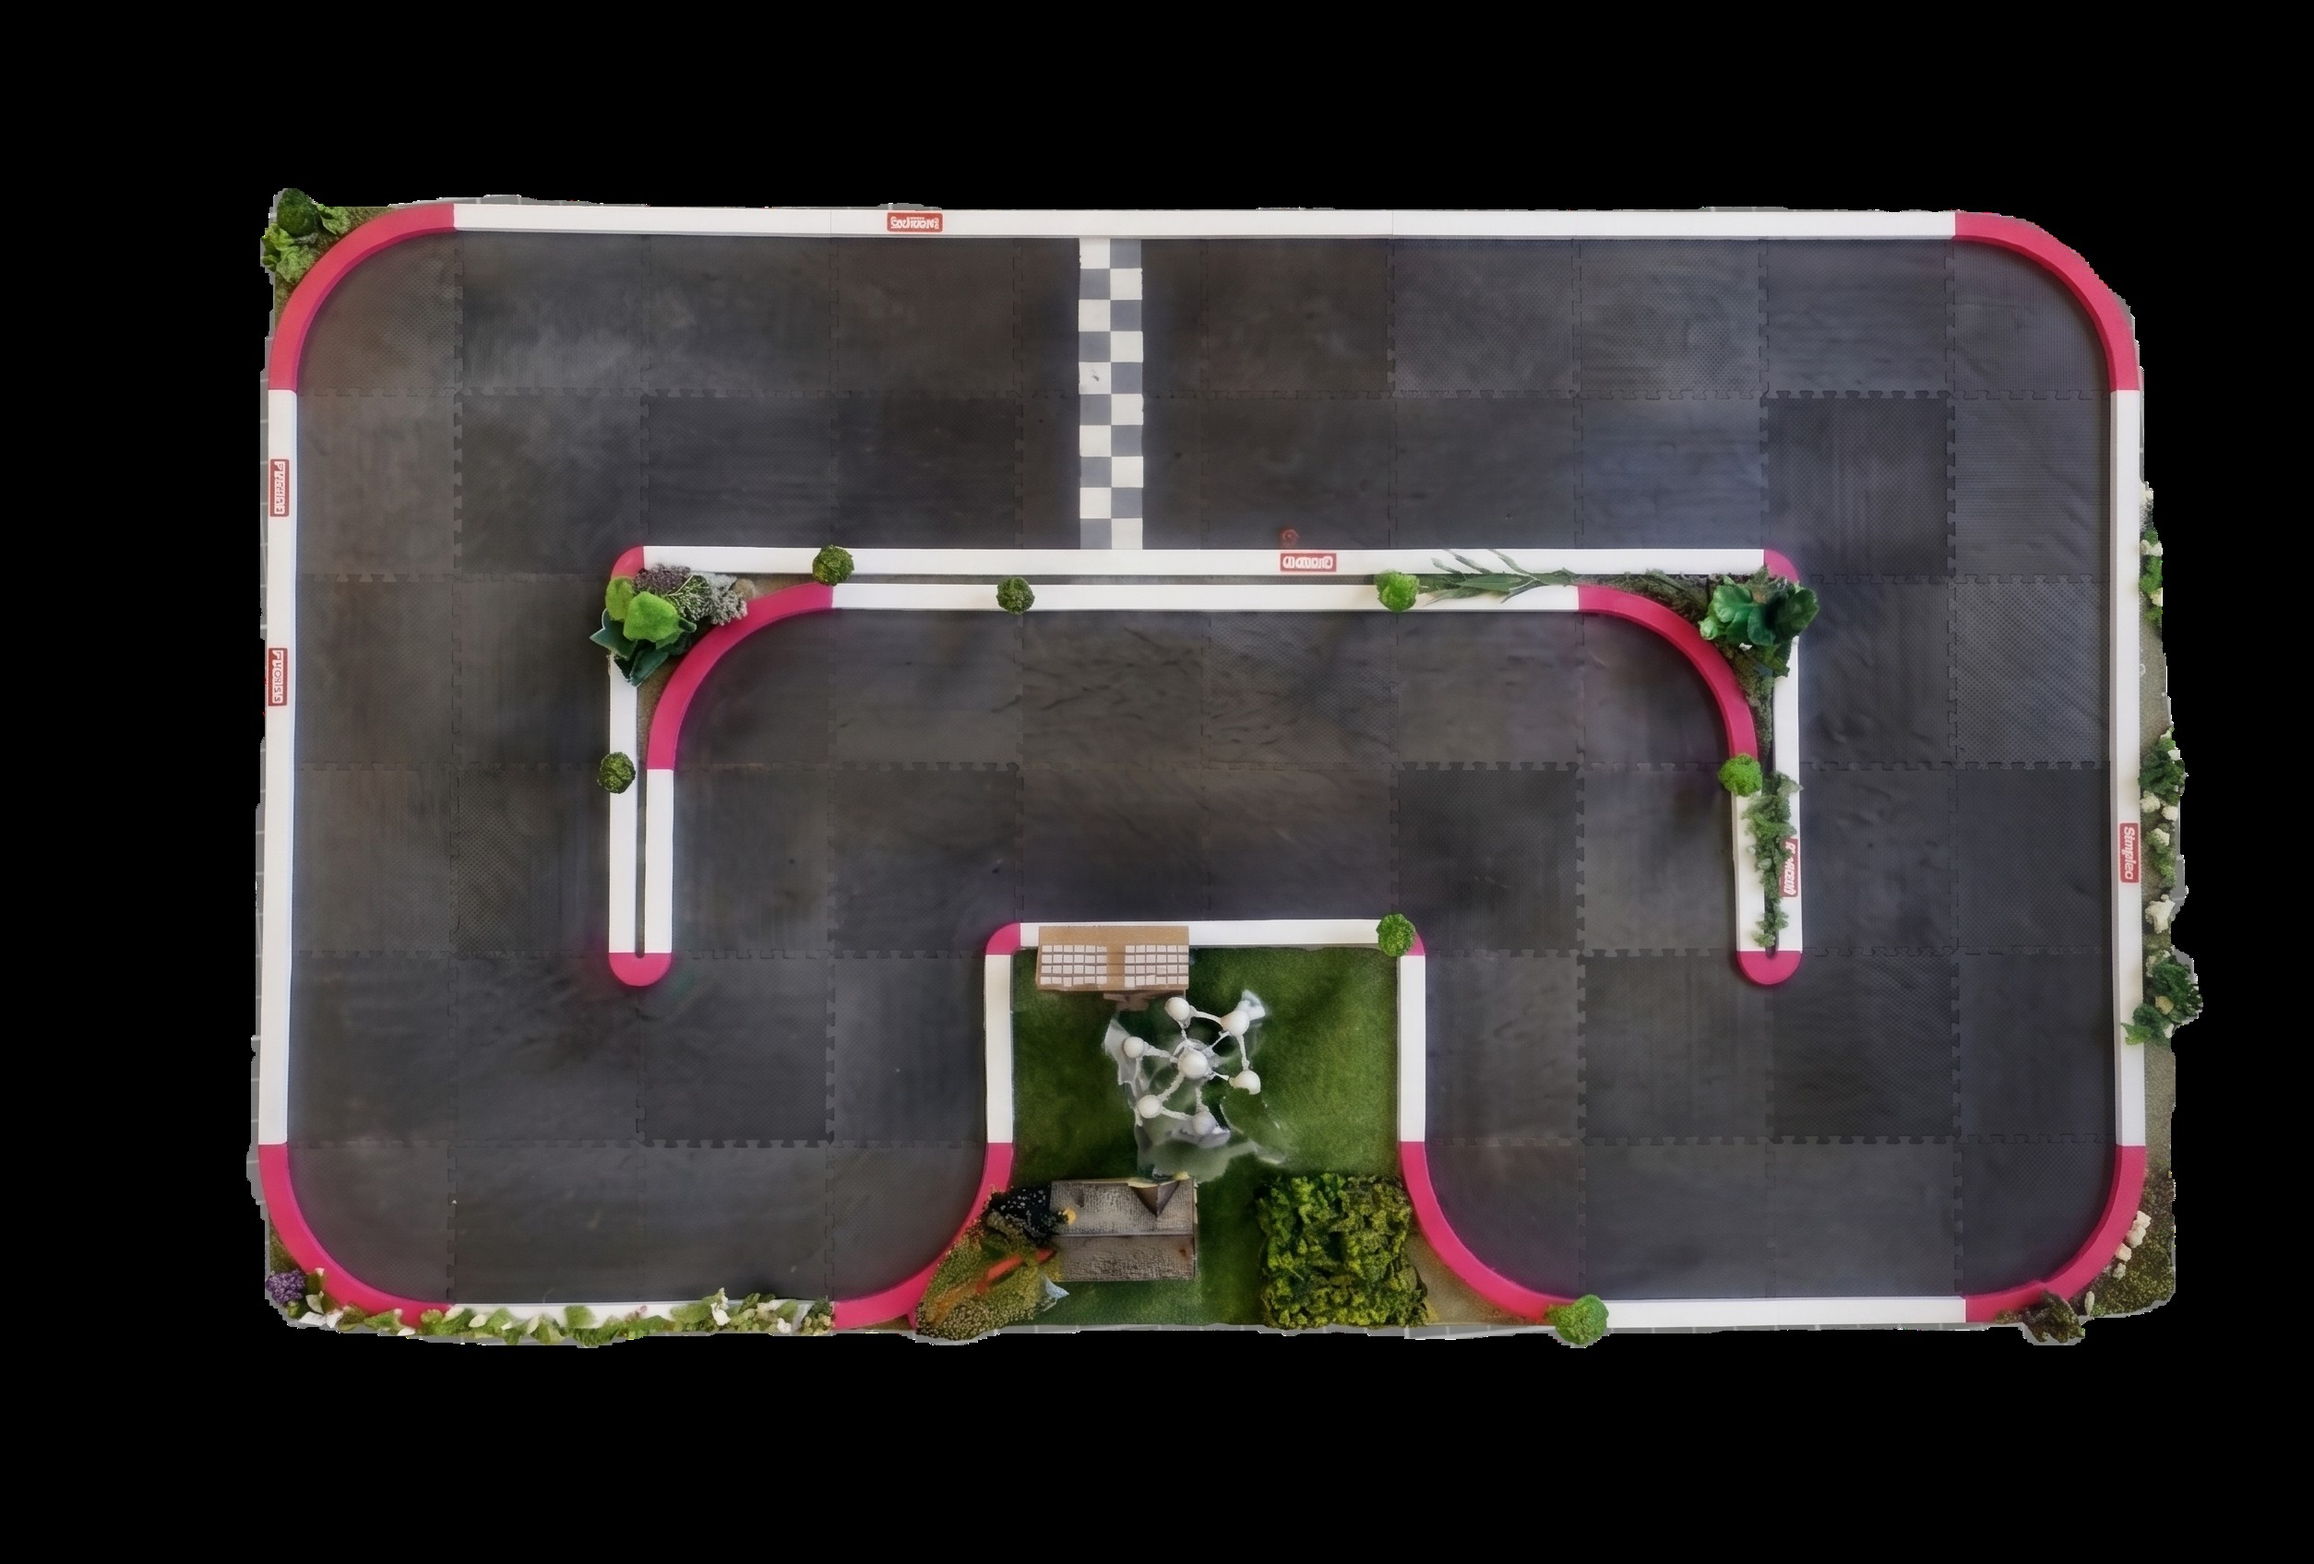
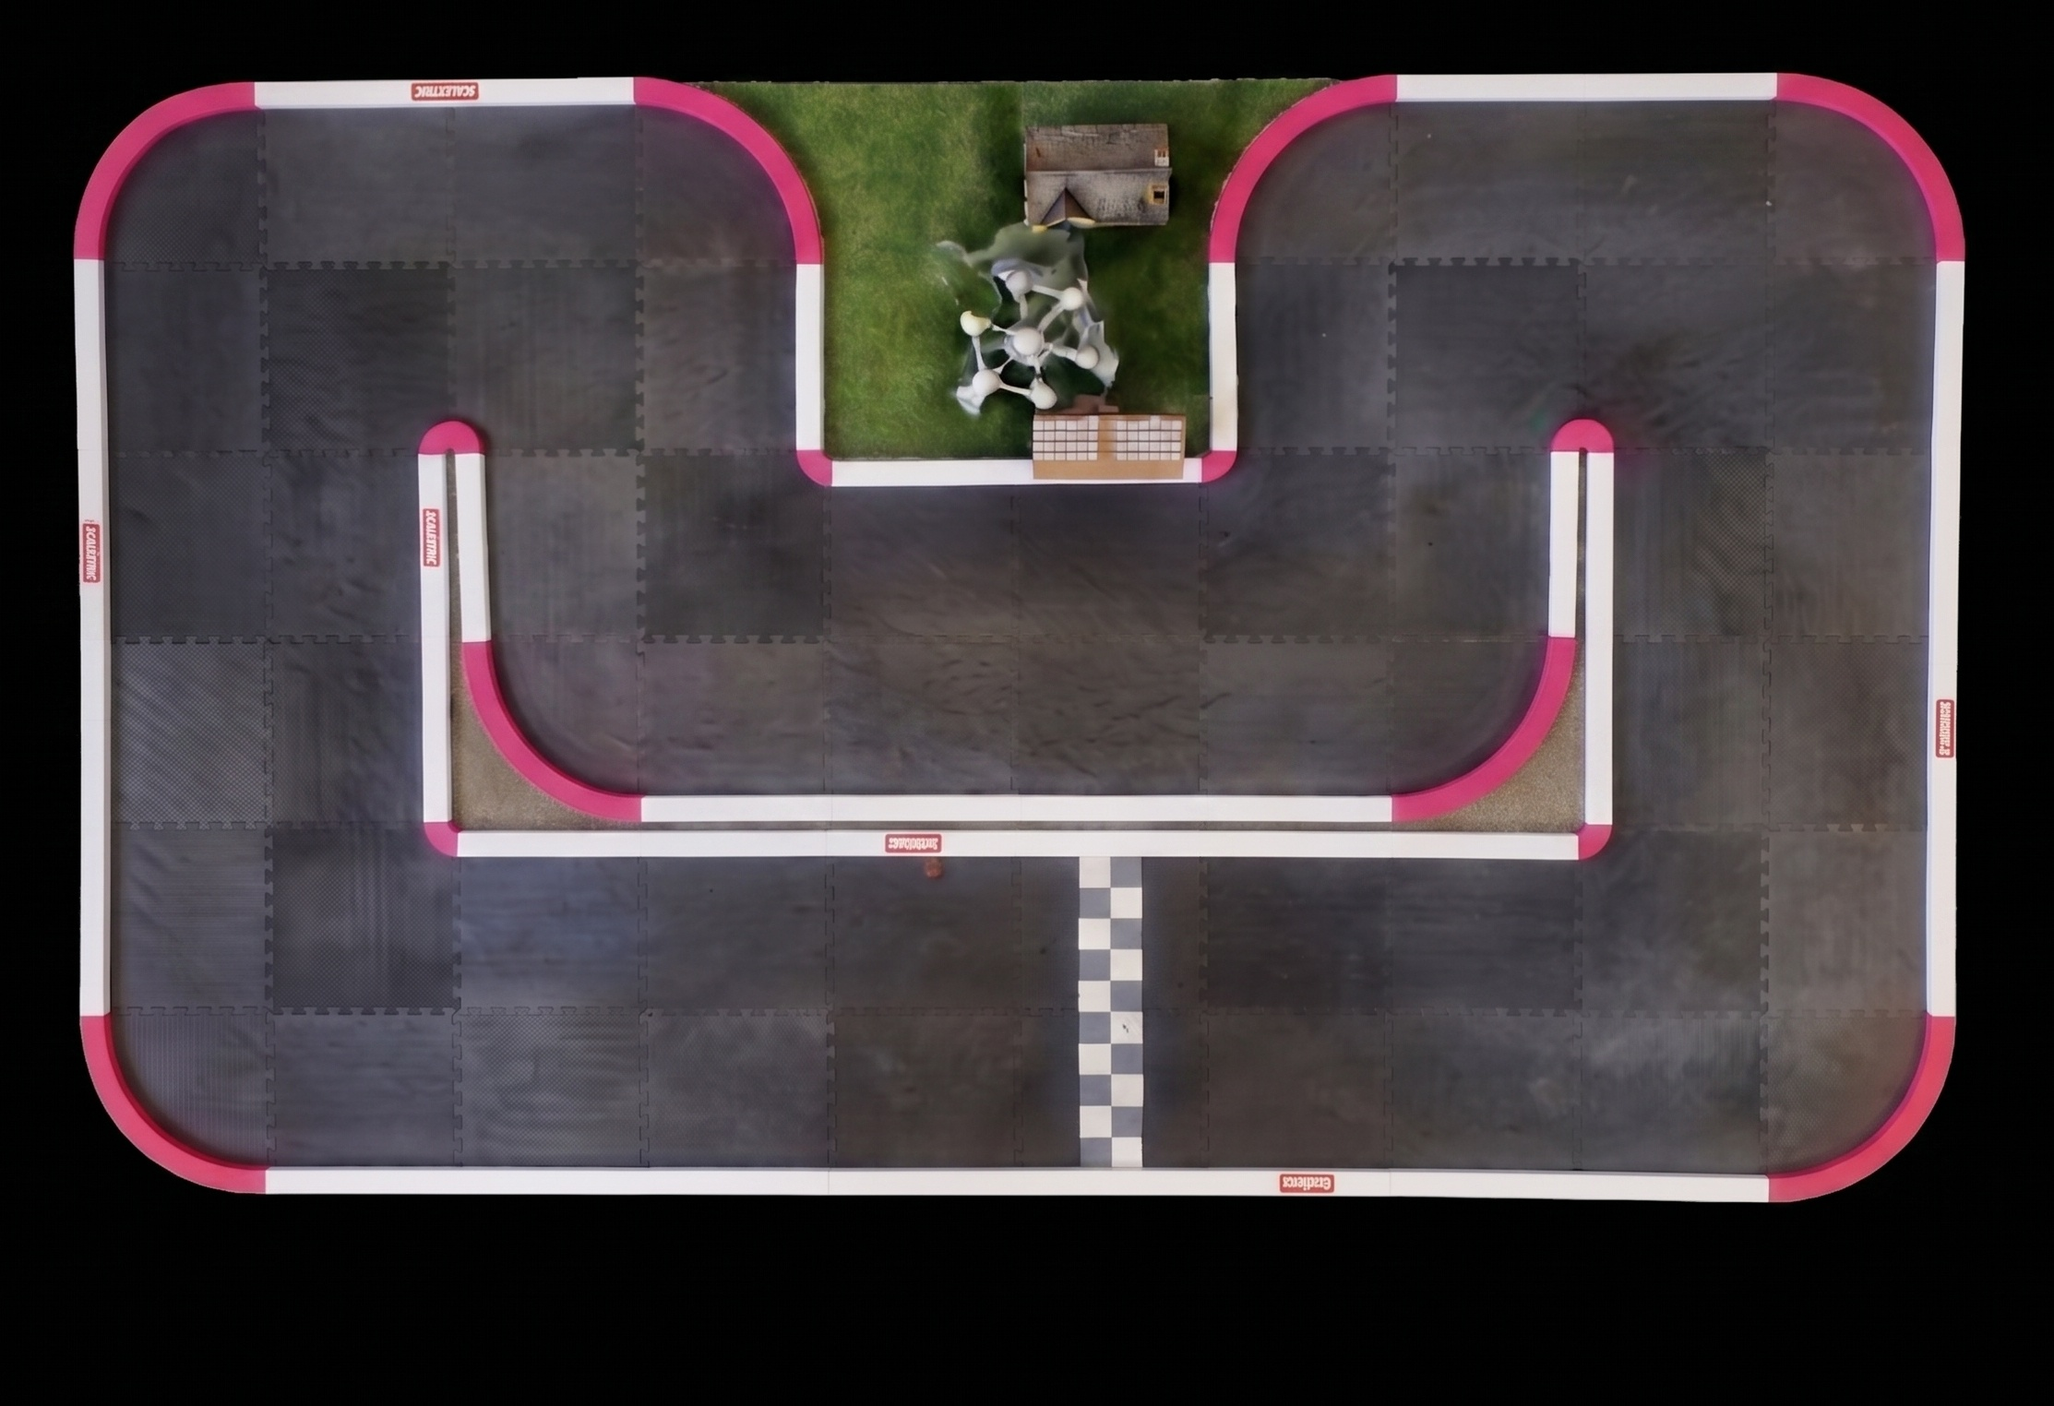
Add cache-busting query to track image
Append a ?v=filemtime(...) query parameter to the TRACK_IMAGE src in public/dashboard.php so the browser will reload the track image when the file is updated. The binary track1.jpg asset was also replaced/updated.

diff --git a/public/dashboard.php b/public/dashboard.php
@@ -120,7 +120,7 @@ $cameraUrl = CAMERA_STREAM_URL;
     <div class="map-wrapper">
       <img
         id="track-bg"
-        src="<?= htmlspecialchars(TRACK_IMAGE, ENT_QUOTES, 'UTF-8') ?>"
+        src="<?= htmlspecialchars(TRACK_IMAGE, ENT_QUOTES, 'UTF-8') ?>?v=<?= filemtime(__DIR__ . '/' . TRACK_IMAGE) ?>"
         alt="Track layout"
         class="track-image"
         draggable="false"
